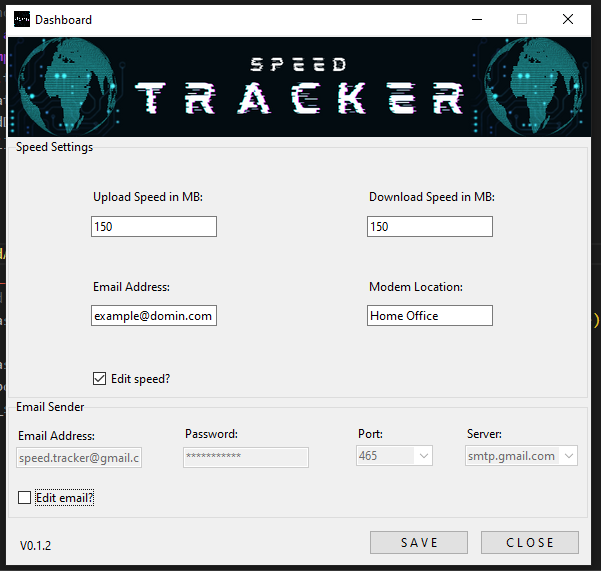
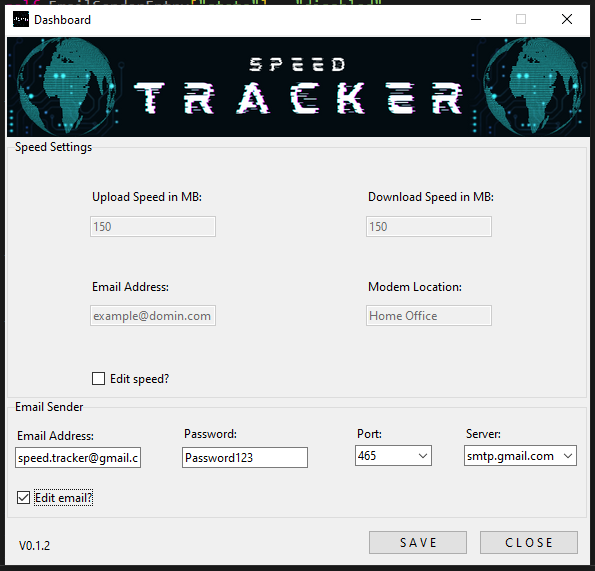
Update Readme.md

diff --git a/README.md b/README.md
@@ -1,16 +1,18 @@
 <body>
 <img src="res/image/Speed_Tracker_logo.png">
-<h1>SPEED TRACKER V0.1.2</h1>
-<h2>Project is currently under development</h2>
-
-
-
-<h3>Dashboard Design</h3>
-
-<img src="res/image/Speed_Tracker_Screenshot.png">
 
 
 <p>
+<h1>SPEED TRACKER V0.1.2</h1>
+<h1>CURRENTLY UNDER DEVELOPMENT</h2>
+</br>
+</br>
+
+<h3>Launch Screen:</h3>
+<img src="res/image/Speed_Tracker_Screenshot.png">
+</br>
+</br>
+
 <h3>How To Use Speed Tracker</h3>
 
 <h5>STEP 1:</h5>
@@ -32,18 +34,18 @@ Now you will need to create a schedular with 'Task Scheduler'.
 </br>
 </br>
 
-<h3>Edit Speed Settings & More:</h3>
+<h3>Edit Speed Settings & More Selected:</h3>
 <img src="res/image/edit_settings_preview.png"> 
 </br>
 </br>
 
-<h3>Edit Email Sender Settings:</h3>
+<h3>Edit Email Settings Selected :</h3>
 <img src="res/image/edit_sender_info_preview.png"> 
 
 </br>
 </br>
 
-<h3>Both Check buttons Selected:</h3>
+<h3>Both Settings Selected:</h3>
 <img src="res/image/edit_all_preview.png"> 
 
 </br>
